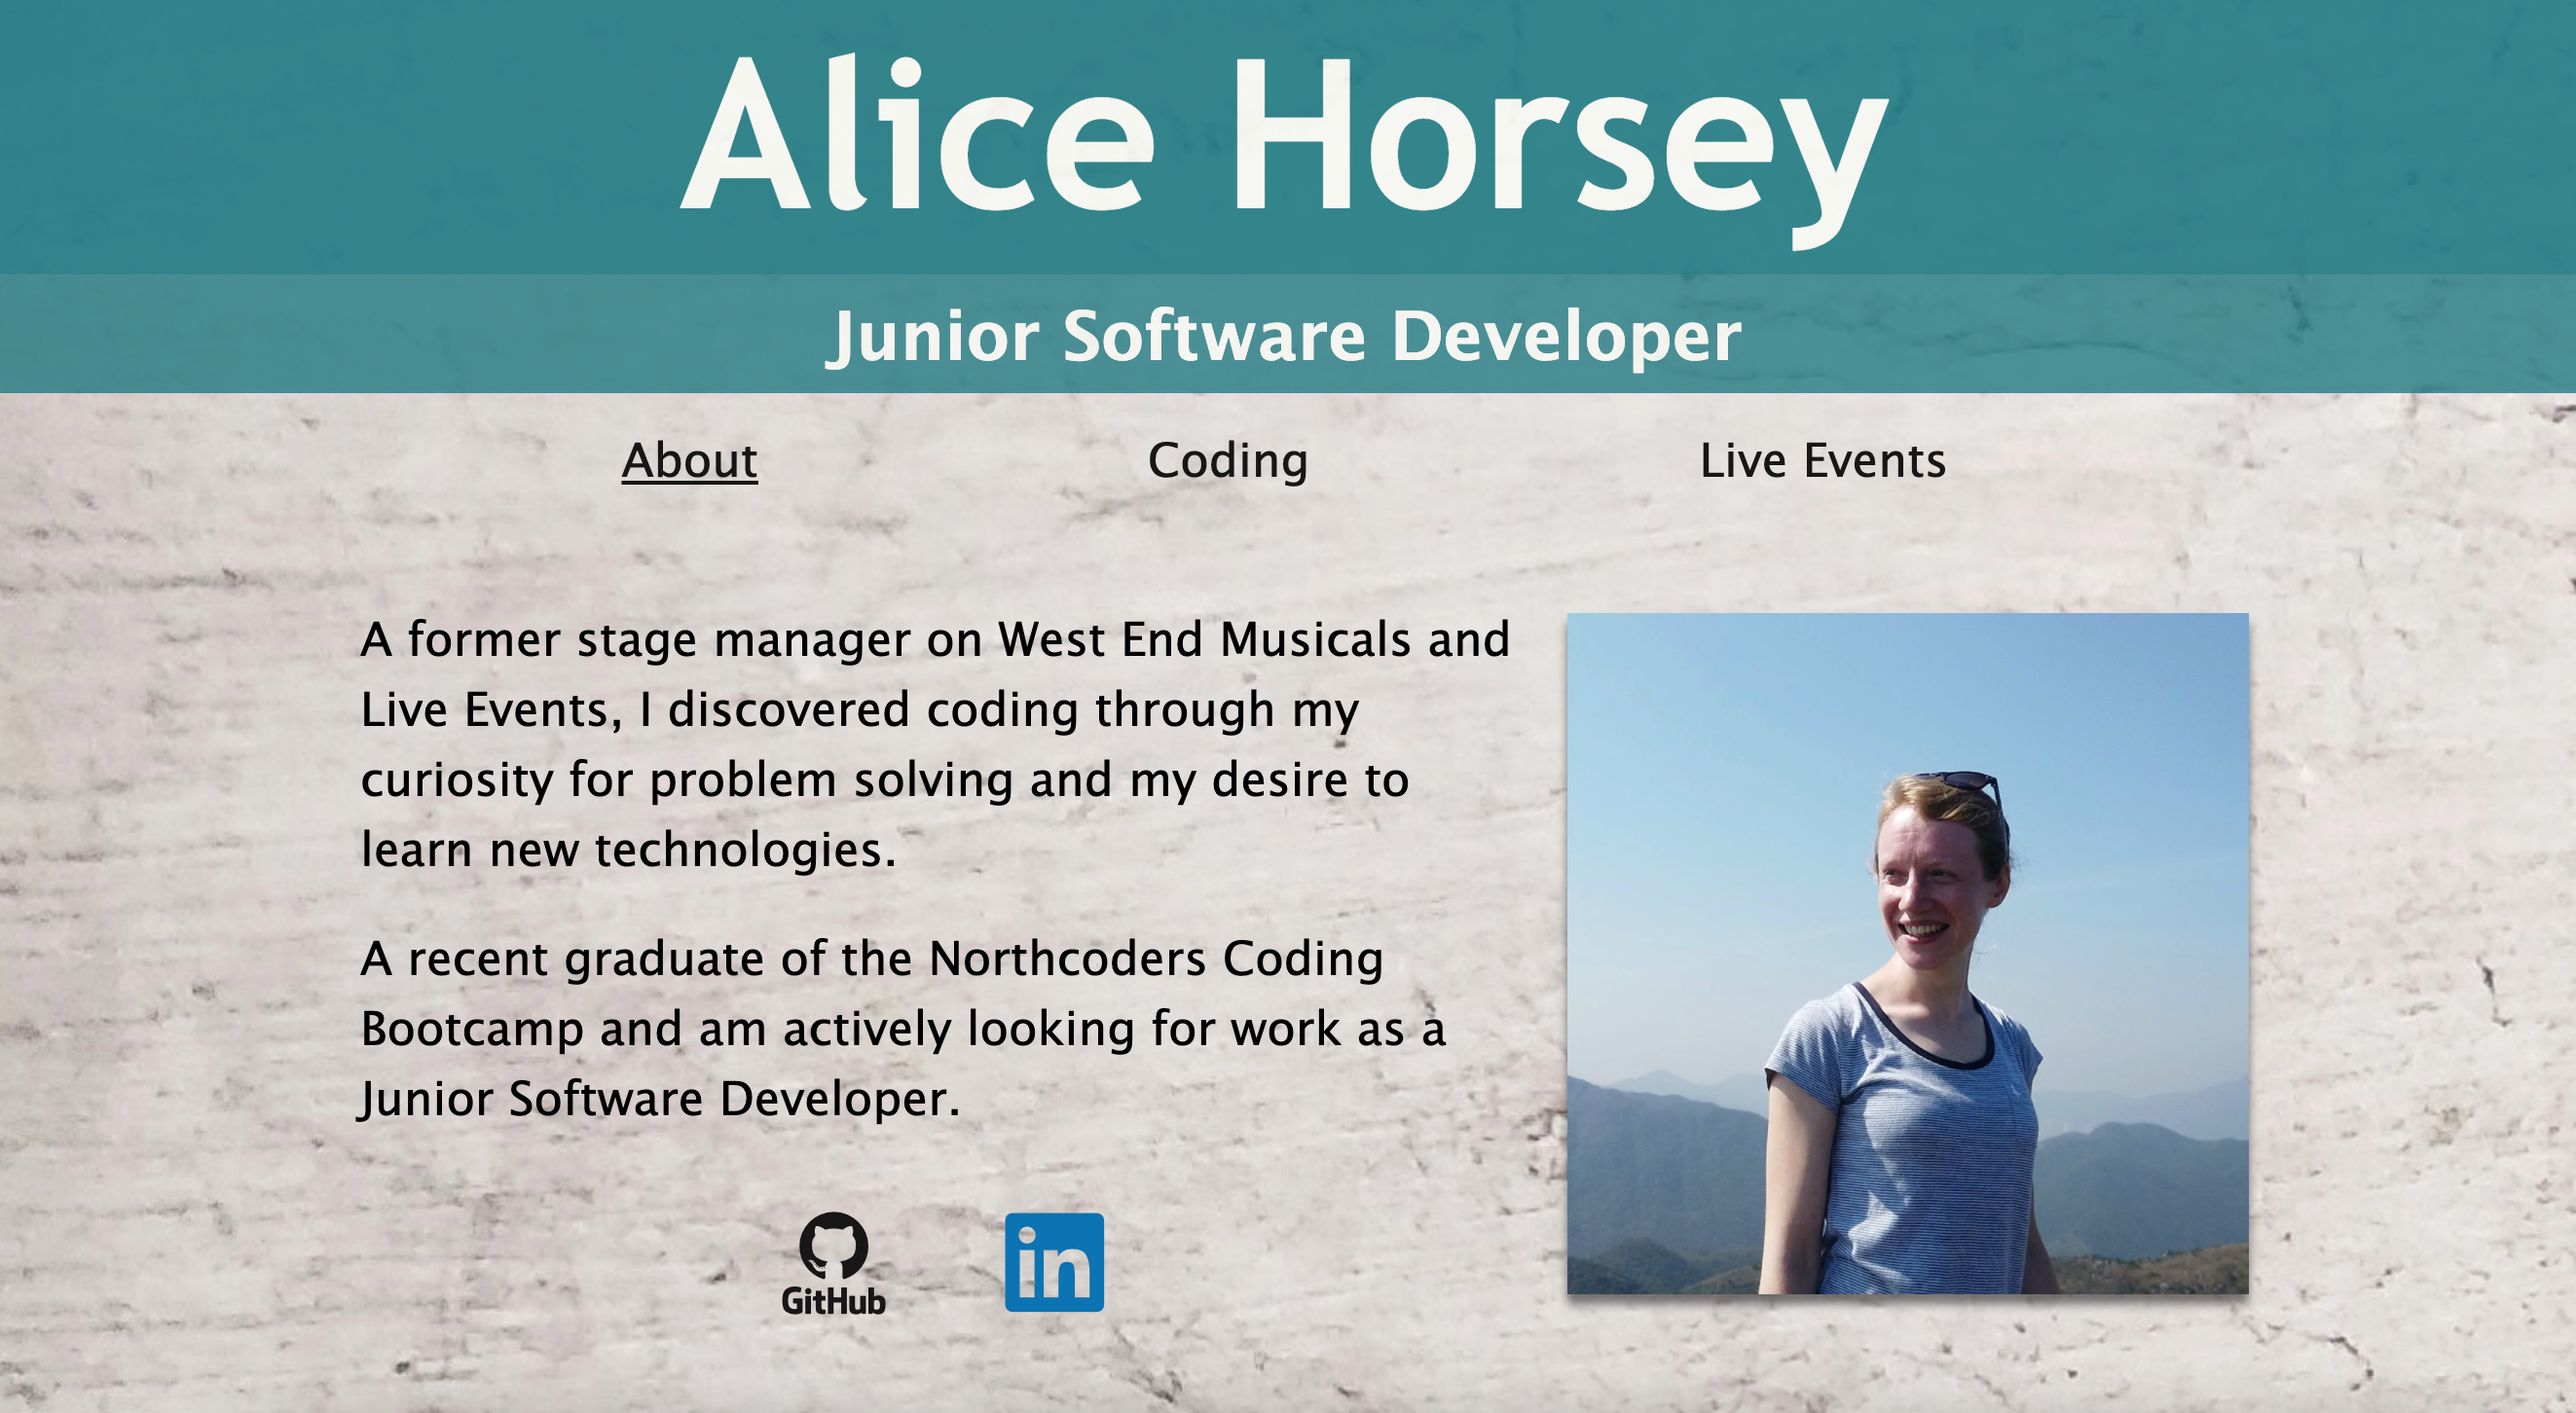
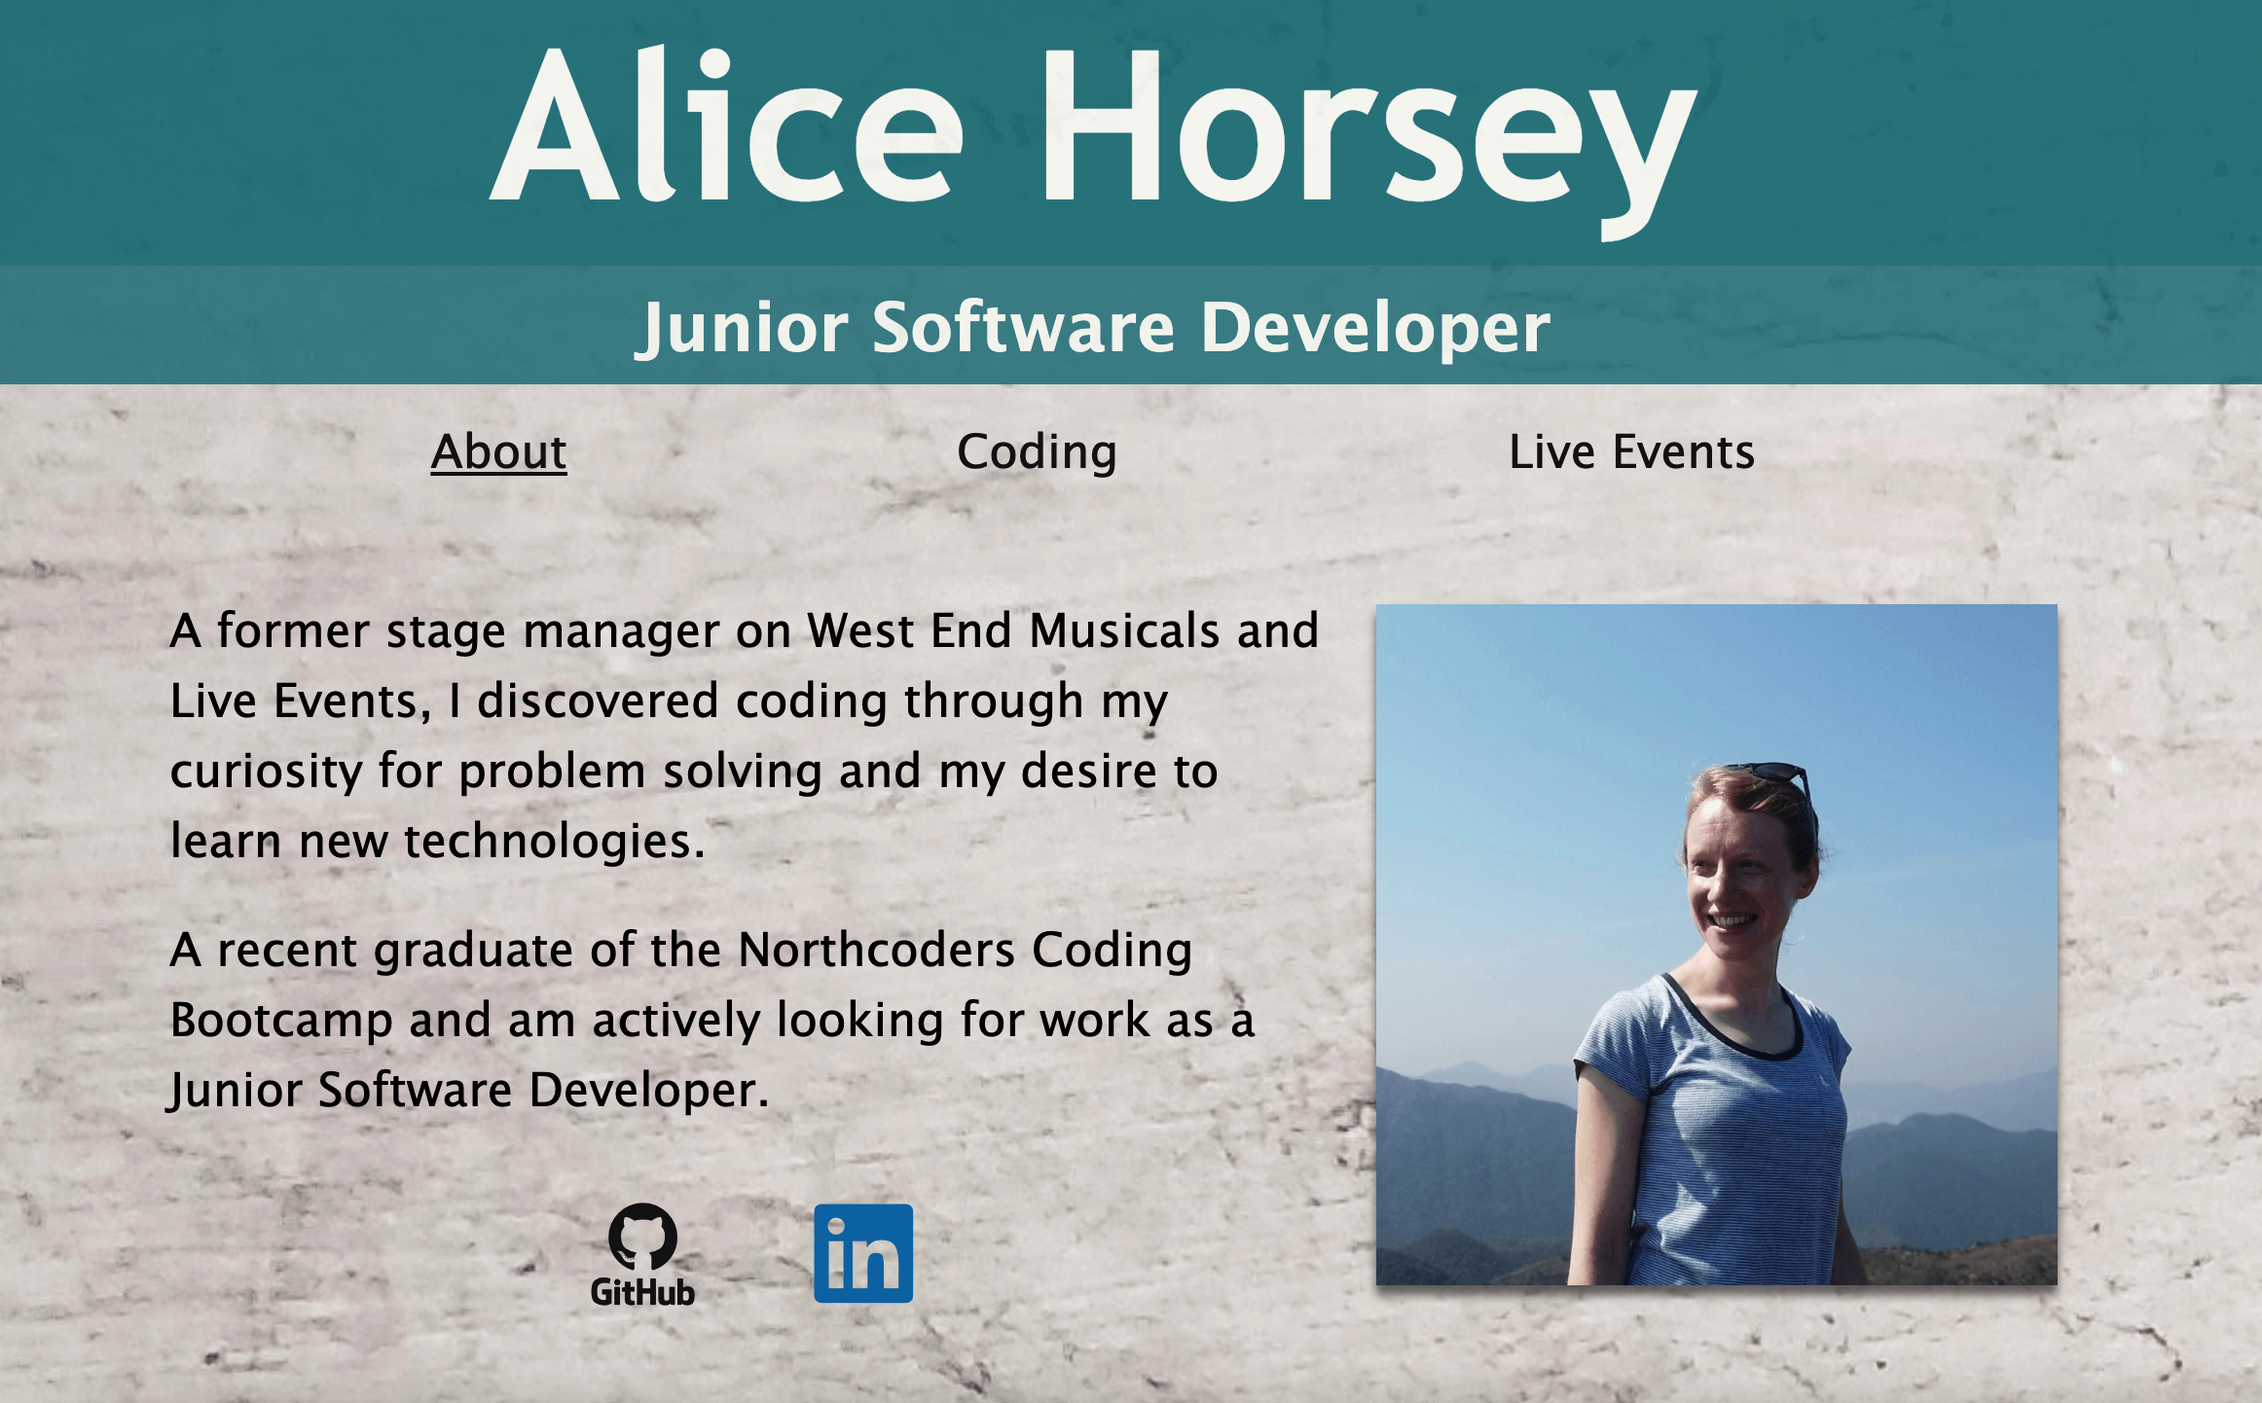
adds my joke app to coding, compresses coding imgs

diff --git a/coding.html b/coding.html
@@ -33,9 +33,29 @@
         </div>
 
         <section class="project-cards-container">
+
+            <!-- Joke Application -->
+            <div class="project-card">
+                <img src="../images/joke-app.jpeg" alt="Joke Application" class="card-photo">
+                <h2>Joke Application</h2>
+                <a href="https://github.com/alicehorsey/knock-knock-whos-there" target="_blank">
+                    <i class="devicon-github-original-wordmark colored"></i></a>
+
+                <div class="card-text">
+                    <p>A full stack web application featuring everyone's favourite jokes!<br>The back end was built
+                        using Node.js
+                        and Express. The front end was built using React.</p>
+                    <p>There are full installation details in the
+                        README.md on Github.
+                    </p>
+                    <!-- <p>Hosted on Heroku and Netlify.</p> -->
+                </div>
+
+            </div>
+
             <!-- NC News Front End -->
             <div class="project-card">
-                <img src="../images/nc-news-home.jpeg" alt="Terminal Game" class="card-photo">
+                <img src="../images/nc-news-home.jpeg" alt="News Application" class="card-photo">
                 <h2>News Application</h2>
                 <a href="https://alices-news-application.netlify.app/" target="_blank">
                     <i class="devicon-chrome-plain-wordmark colored"></i></a>

diff --git a/css/style.css b/css/style.css
@@ -7,7 +7,7 @@ body {
     margin: 0;
     height: 100%;
     position: relative;
-    background-image: url("../images/background.jpg");
+    background-image: url("../images/compressed-imgs/background.jpg");
 }
 
 a {
@@ -64,7 +64,6 @@ p {
 }
 
 .nav-link {
-    display: inline-block;
     color: black;
     font-size: 18pt;
     padding: 10px 100px 10px 100px;
